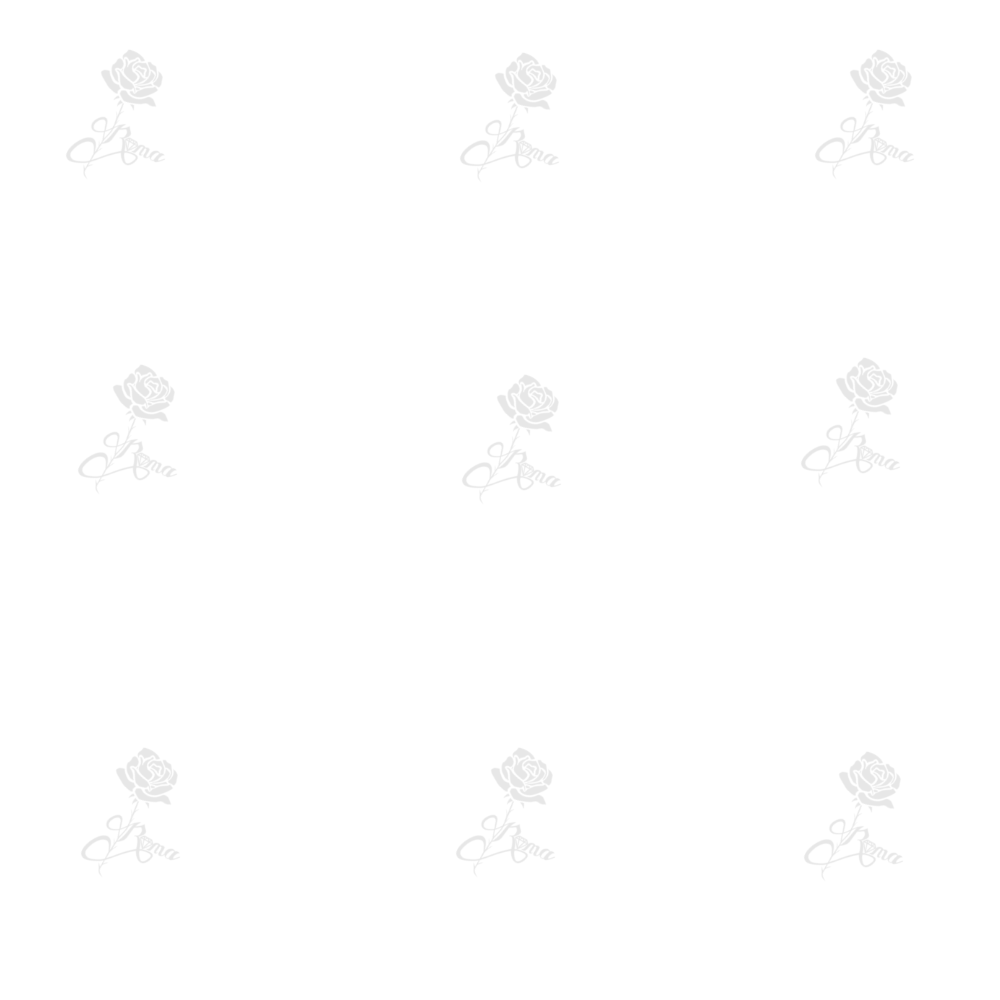
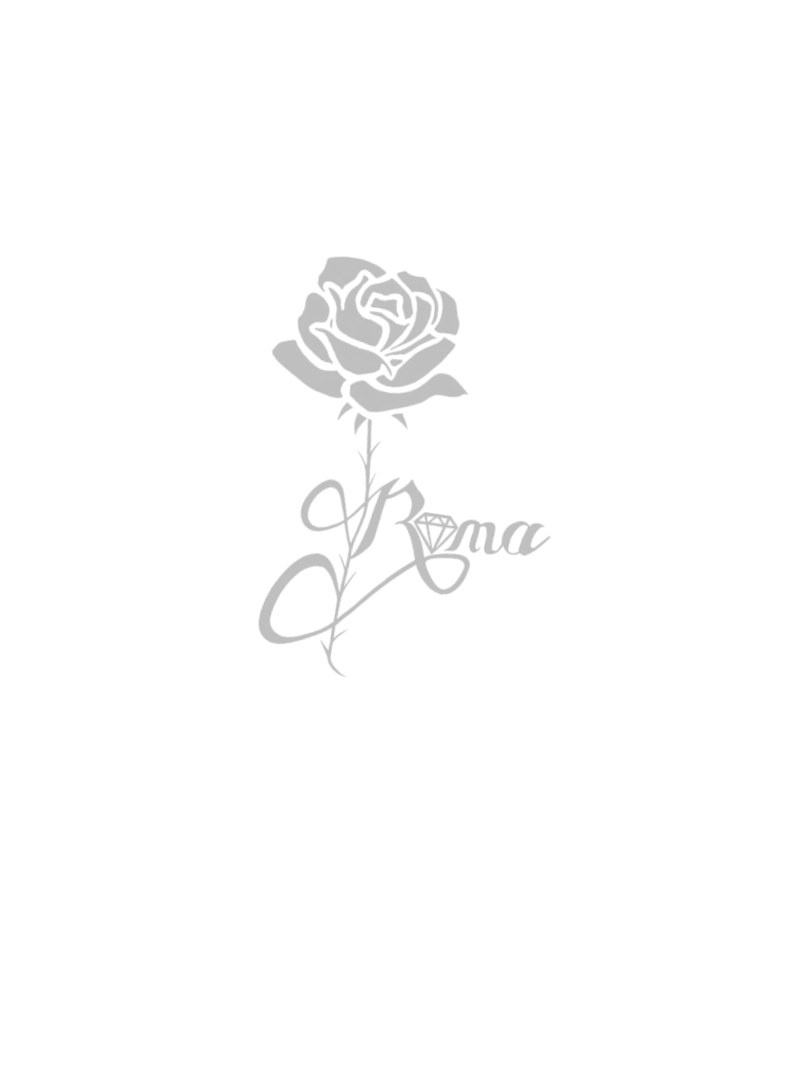
Corrección background

Changed region(s): [[0.3046, 0.217, 0.7005, 0.62]]

diff --git a/src/styles.css b/src/styles.css
@@ -6,4 +6,6 @@
 body {
   font-family: 'Montserrat', sans-serif;
   background-image: url('/background.png');
+  background-repeat: repeat;
+  background-size: 10%;
 }
